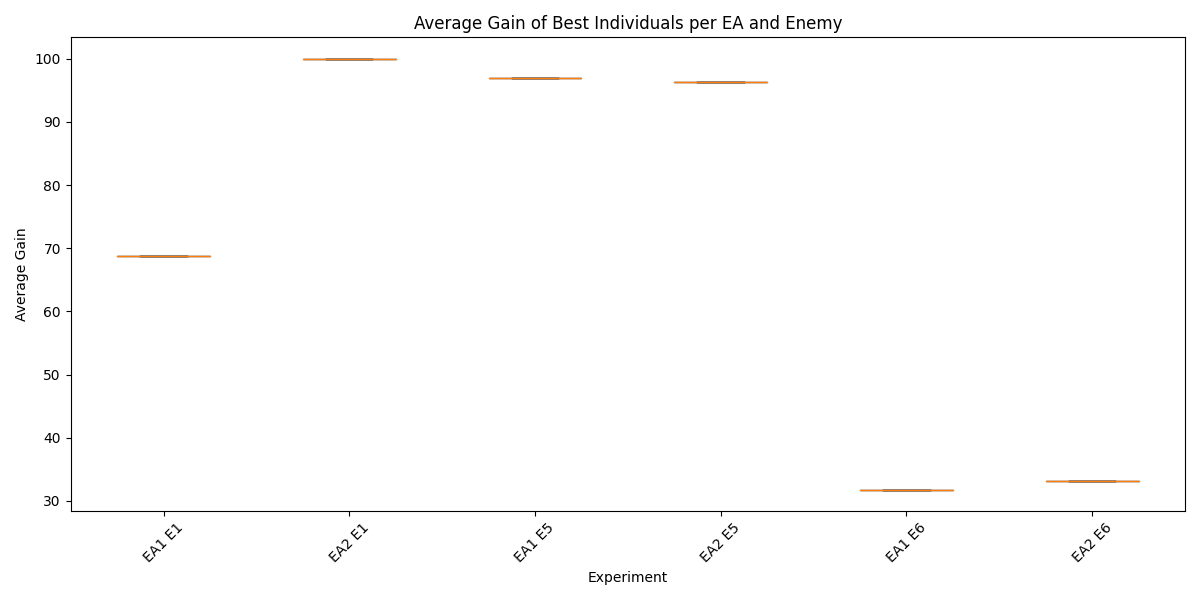
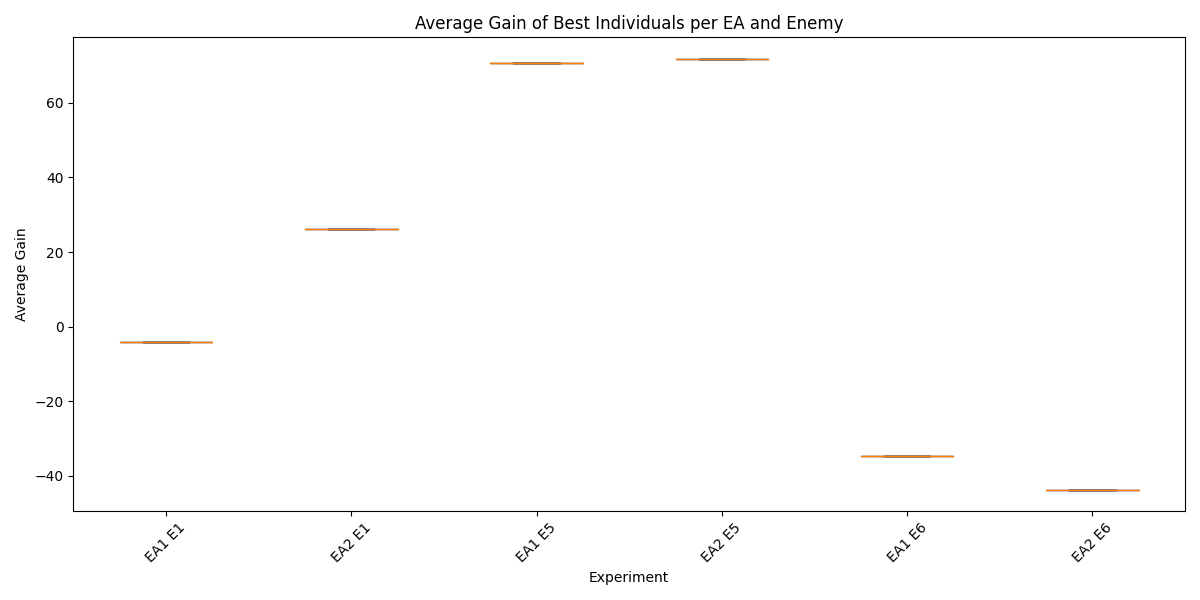
boxplots

diff --git a/boxplots.py b/boxplots.py
@@ -65,11 +65,8 @@ def create_boxplot(all_results):
     # Customize boxplot colors
     colors = ['#FF1493', '#00BFFF'] * 3  # Deep Pink for EA1, Deep Sky Blue for EA2
     for patch, color in zip(bp['boxes'], colors):
-        patch.set_color(color)
+        patch.set_facecolor(color)
         patch.set_alpha(0.7)  # Add some transparency
-    
-    # Set edge color of boxes to match face color
-    for patch, color in zip(bp['boxes'], colors):
         patch.set_edgecolor(color)
     
     # Set median lines to dark black
@@ -85,30 +82,29 @@ def create_boxplot(all_results):
         cap.set_color('black')
     
     # Add mean points
-    ax.scatter(range(1, len(all_results) + 1), means, color='yellow', s=50, zorder=3, label='Mean')
+    mean_points = ax.scatter(range(1, len(all_results) + 1), means, color='yellow', s=50, zorder=3)
     
-    # Perform Mann-Whitney U tests and add p-values to plot
-    for i in range(0, len(all_results), 2):
-        ea1_results = all_results[i]
-        ea2_results = all_results[i+1]
-        statistic, p_value = stats.mannwhitneyu(ea1_results, ea2_results, alternative='two-sided')
-        
-        ax.text((i+1.5), ax.get_ylim()[1], f'p = {p_value:.3f}', 
-                horizontalalignment='center', verticalalignment='bottom')
-        
-        # Add bracket
-        ax.annotate('', xy=(i+1, ax.get_ylim()[1]), xytext=(i+2, ax.get_ylim()[1]),
-                    arrowprops=dict(arrowstyle='-', lw=1.5))
+    # Set title with increased size and bold font
+    ax.set_title('Mean individual gain of best performing individual in EA1 and EA2', 
+                 fontsize=16, fontweight='bold')
     
-    ax.set_title('Mean individual gain of best performing individual in EA1 and EA2')
-    ax.set_xlabel('Experiment name')
-    ax.set_ylabel('Individual gain')
+    # Increase size of x and y labels
+    ax.set_xlabel('Experiment name', fontsize=13)
+    ax.set_ylabel('Individual gain', fontsize=13)
     
     # Adjust y-axis to prevent compression
     ax.set_ylim(min(min(result) for result in all_results) - 10, 
                 max(max(result) for result in all_results) + 10)
     
-    plt.legend()
+    # Add legend for EA1 and EA2 with increased font size
+    ea1_patch = plt.Rectangle((0, 0), 1, 1, fc='#FF1493', alpha=0.7, edgecolor='#FF1493')
+    ea2_patch = plt.Rectangle((0, 0), 1, 1, fc='#00BFFF', alpha=0.7, edgecolor='#00BFFF')
+    ax.legend([ea1_patch, ea2_patch, mean_points], ['EA1', 'EA2', 'Mean'], 
+              loc='upper right', bbox_to_anchor=(1, 1), fontsize=12)
+    
+    # Increase tick label font size
+    ax.tick_params(axis='both', which='major', labelsize=12)
+    
     plt.tight_layout()
     plt.savefig('boxplot_comparison.png', dpi=300)
     plt.close()

diff --git a/boxp.py b/boxp.py
@@ -115,6 +115,7 @@ for enemy in enemies:
                         enemymode="static",
                         level=2,
                         speed="fastest",
+                        randomini="yes",
                         visuals=False)
     
     for algorithm in algorithms:
@@ -172,11 +173,13 @@ for label, result in zip(labels, all_results):
 for i in range(0, len(all_results), 2):
     ea1_gains = all_results[i]
     ea2_gains = all_results[i+1]
-    t_stat, p_value = stats.ttest_ind(ea1_gains, ea2_gains)
-    enemy = enemies[i//2]
-    print(f"\nT-test results for Enemy {enemy}:")
-    print(f"t-statistic: {t_stat}")
+    u_stat, p_value = stats.mannwhitneyu(ea1_gains, ea2_gains, alternative='two-sided')
+    enemy = enemies[i//2]   
+    print(f"\nMann-Whitney U test results for Enemy {enemy}:")
+    print(f"U-statistic: {u_stat}")
     print(f"p-value: {p_value}")
+
+
 
 # # Create a boxplot
 # plt.figure(figsize=(12, 6))
